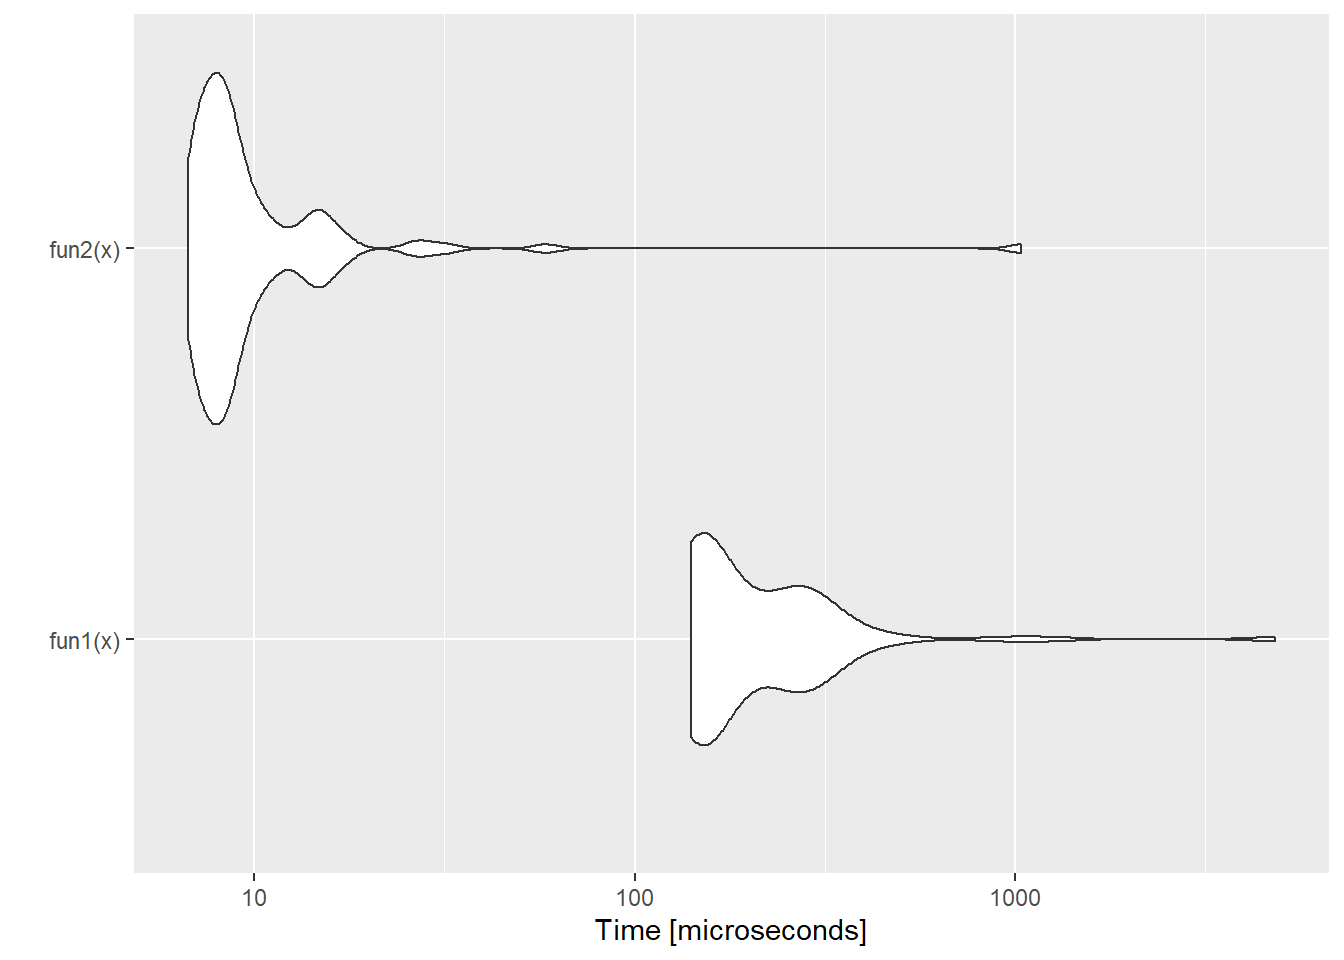
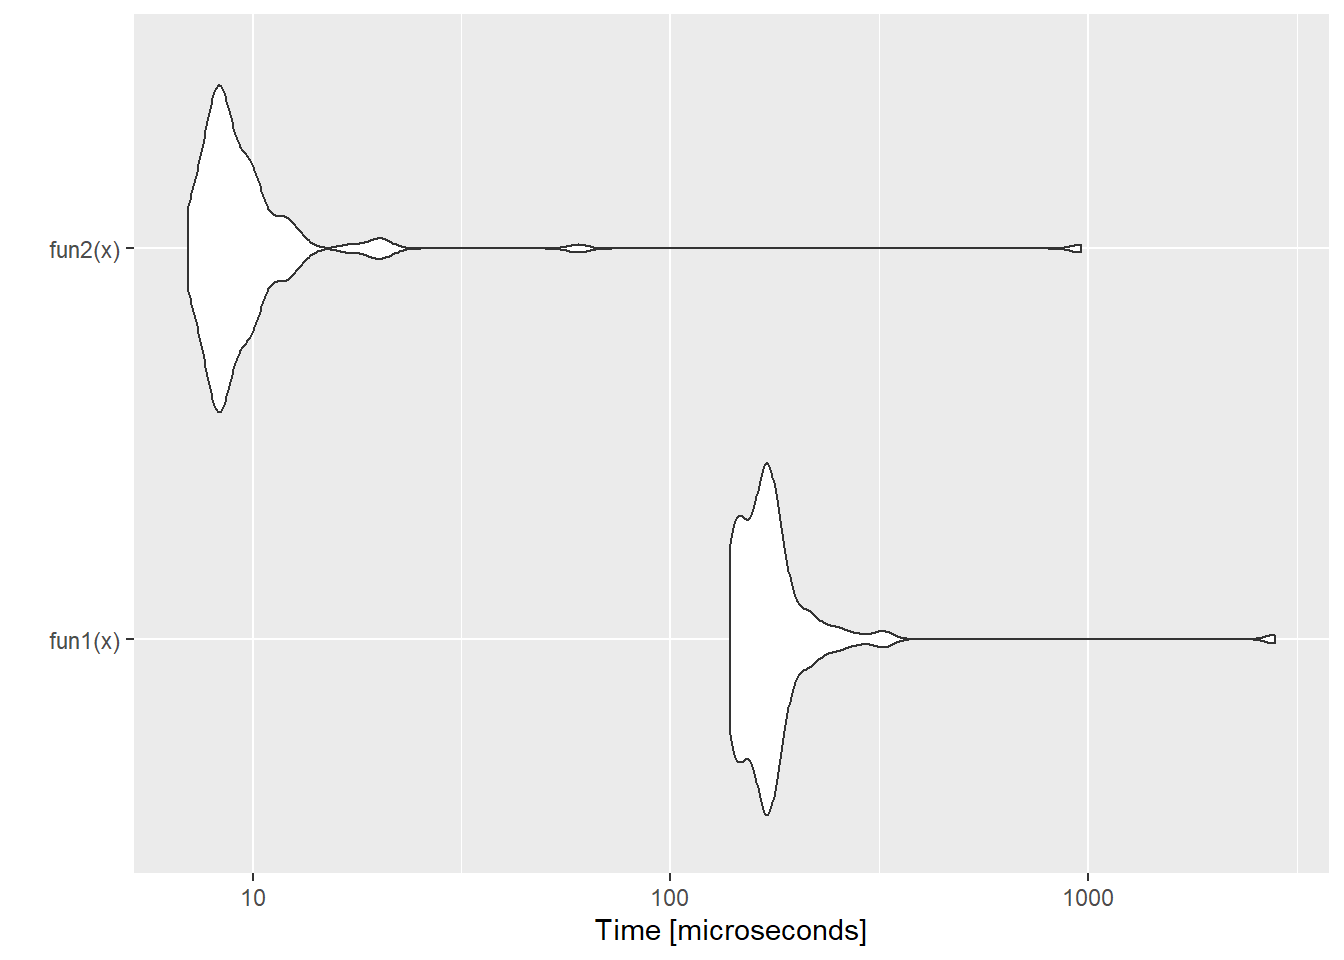
add link to MARSS

diff --git a/week4-packages.html b/week4-packages.html
@@ -826,11 +826,9 @@ Rprof(tmp&lt;-tempfile())
 for(i in 1:10000){ b=t(a)%*%a }
 Rprof()
 summaryRprof(tmp)$by.self</code></pre>
-<pre><code>##             self.time self.pct total.time total.pct
-## &quot;%*%&quot;            0.26    72.22       0.26     72.22
-## &quot;t&quot;              0.04    11.11       0.08     22.22
-## &quot;t.default&quot;      0.04    11.11       0.04     11.11
-## &quot;eval&quot;           0.02     5.56       0.36    100.00</code></pre>
+<pre><code>##        self.time self.pct total.time total.pct
+## &quot;%*%&quot;       0.34    94.44       0.34     94.44
+## &quot;eval&quot;      0.02     5.56       0.36    100.00</code></pre>
 <pre class="r"><code>Rprof(NULL) #stop profiling</code></pre>
 <p><strong>microbenchmark</strong></p>
 <p>This is a handy package for comparing speeds of code.</p>
@@ -841,7 +839,7 @@ res &lt;- microbenchmark(2 + 2, 2 + a, sum(2, a), sum(2, 2))
 ggplot2::autoplot(res)</code></pre>
 <pre><code>## Coordinate system already present. Adding new coordinate system, which will replace the existing one.</code></pre>
 <pre><code>## Warning: Transformation introduced infinite values in continuous y-axis</code></pre>
-<pre><code>## Warning: Removed 90 rows containing non-finite values (stat_ydensity).</code></pre>
+<pre><code>## Warning: Removed 16 rows containing non-finite values (stat_ydensity).</code></pre>
 <p><img src="week4-packages_files/figure-html/unnamed-chunk-3-1.png" width="672" /></p>
 <p>This shows an example of code using <a href="https://www.datacamp.com/community/tutorials/pipe-r-tutorial">piping</a> (<code>%&gt;%</code>) versus without. This is why I do not use piping. It is slow and I do simulations and I want fast code. Piping also makes it a nightmare for your functions to pass the package checks required to submit to CRAN, important to me as I develop packages for CRAN.</p>
 <pre class="r"><code>library(magrittr)

diff --git a/week7-more-git.html b/week7-more-git.html
@@ -590,7 +590,7 @@ Robust
 <li>How to create a release in GitHub</li>
 <li>A workflow to minimize headaches</li>
 </ul>
-<p>I’ll be illustrating this with this repo: <a href="https://github.com/eeholmes/MyNewPackage" class="uri">https://github.com/eeholmes/MyNewPackage</a></p>
+<p>I’ll be illustrating this with this repo: <a href="https://github.com/eeholmes/MyNewPackage" class="uri">https://github.com/eeholmes/MyNewPackage</a> You can see a real-world example of this here on my MARSS package repo: <a href="https://github.com/nwfsc-timeseries/MARSS" class="uri">https://github.com/nwfsc-timeseries/MARSS</a></p>
 <div id="merge-conflicts" class="section level2">
 <h2>Merge conflicts</h2>
 <p>Merge conflicts happen when there are changes to a file on your remote repository (GitHub or GitLab) but also changes to that same file on your local repository. Git doesn’t know how to resolve the conflicting changes and needs your help.</p>

diff --git a/week2-coding.html b/week2-coding.html
@@ -894,7 +894,7 @@ T==TRUE</code></pre>
 <pre class="r"><code>rnorm(100) %&gt;%
   matrix(ncol = 2) %&gt;%
   apply(2,mean)</code></pre>
-<pre><code>## [1]  0.03113878 -0.16005558</code></pre>
+<pre><code>## [1] -0.1475856  0.1097381</code></pre>
 <ul>
 <li>Gravitate towards a standard coding style.</li>
 </ul>
